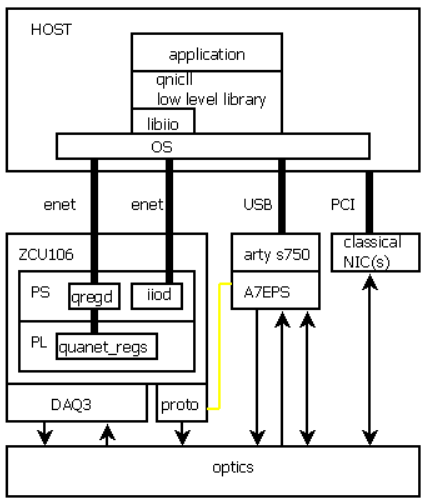
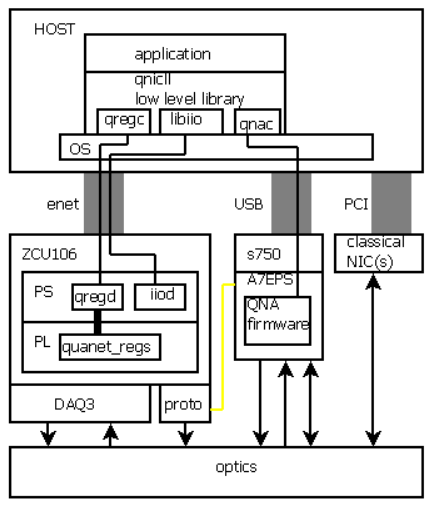
update

Changed region(s): [[0.0, 0.0, 1.0, 1.0]]

diff --git a/README.md b/README.md
@@ -10,5 +10,9 @@ This fits into the qnic as shown.  It's not ideal, but it's a first step.
 
 ![qnic layers!](assets/qnic_layers.png "qnic layers")
 
-To move data, qnicll uses AD's libiio library.  This communicates over ethernet to the AD iiod (iio demon).  In the PL (programmable logic) of the FPGA, "quanet regs" are the small set of registers we added in order to implement the LFSR-based probe generation, the syncronized transmit and recieve, and the synchronized driver for the fast optical switch for noise measurements.  (see library/quanet_regs).  Libiio knows nothing about these, so we wrote a demon "qregd" that mmaps the registers so they can be used.  qnicll connects to qregd to access these registers.  Eventually when we can access these registers through PCI, we can get rid of qregd.  Eventually we can get also rid of the USB connection to the arty S750 board, and use the rs422 link shown in yellow (this is not currently used).
+To move data, qnicll uses AD's libiio library.
+The programmer's interface is modeled on libiio's C api,
+but it's simplified somewhat for our application.
+
+libiio communicates over ethernet to the AD iiod (iio demon).  In the PL (programmable logic) of the FPGA, "quanet regs" are the small set of registers we added in order to implement the LFSR-based probe generation, the syncronized transmit and recieve, and the synchronized driver for the fast optical switch for noise measurements.  (see library/quanet_regs).  Libiio knows nothing about these, so we wrote a demon "qregd" that mmaps the registers so they can be used.  qnicll connects to qregd to access these registers.  Eventually when we can access these registers through PCI, we can get rid of qregd.  Eventually we can get also rid of the USB connection to the arty S750 board, and use the rs422 link shown in yellow (this is not currently used).
 
